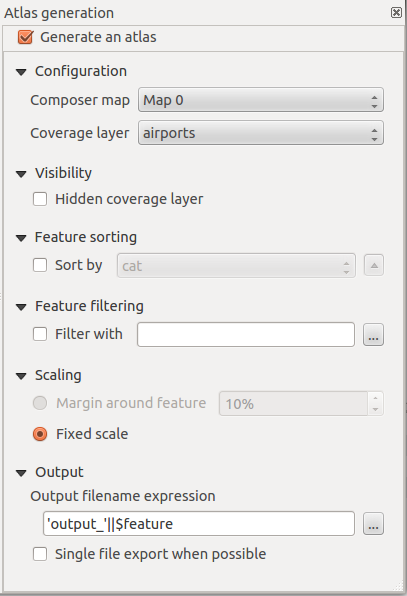
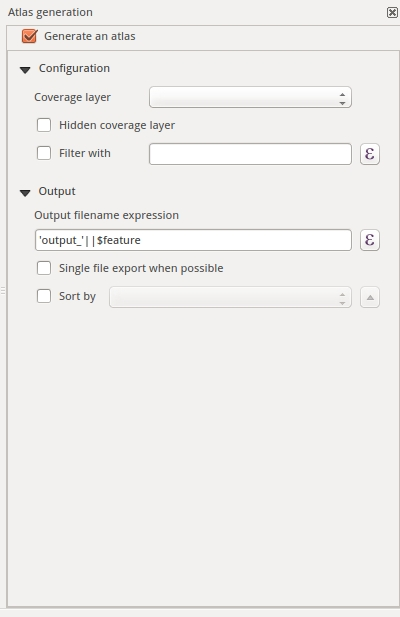
Atlas update and minor fixes

diff --git a/source/docs/user_manual/print_composer/print_composer.rst b/source/docs/user_manual/print_composer/print_composer.rst
@@ -52,7 +52,7 @@ See a list of tools in table_composer_1_:
 +--------------------------+---------------------------------------+----------------------------+------------------------------------------+
 | |mActionAddHtml|         | Add a HTML Frame                      |                            |                                          |
 +--------------------------+---------------------------------------+----------------------------+------------------------------------------+
-| |mActionSelectPan|       | Select/Move item in print composition | |mActionMoveItemContent|   | Move content within an item              |
+| |mActionSelect|       | Select/Move item in print composition | |mActionMoveItemContent|   | Move content within an item              |
 +--------------------------+---------------------------------------+----------------------------+------------------------------------------+
 | |mActionGroupItems|      | Group items of print composition      | |mActionUngroupItems|      | Ungroup items of print composition       |
 +--------------------------+---------------------------------------+----------------------------+------------------------------------------+
@@ -118,7 +118,7 @@ The print composer provides four tabs:
   all elements will be rastered before printing or saving as Postscript or PDF.
   In this tab you can also customize settings for Grid and Smart Guides.
 * The :guilabel:`Item Properties` tab displays the properties for the selected
-  item element. Click the |mActionSelectPan| :sup:`Select/Move item` icon to select
+  item element. Click the |mActionSelect| :sup:`Select/Move item` icon to select
   an element (e.g. legend, scalebar or label) on the canvas. Then click the
   :guilabel:`Item Properties` tab and customize the settings for the selected
   element.
@@ -164,8 +164,7 @@ used as default during the work.
 
 * :guilabel:`Compositions defaults` let you specify the default font to use.
 * With :guilabel:`Grid appearence` you can set the grid style and its color.
-* :guilabel:`Grid defaults` defines spacing, offset and tolerance of the grid. There are three types of grid: **Dots**, 
-**Solid** lines and **Crosses**.
+* :guilabel:`Grid defaults` defines spacing, offset and tolerance of the grid. There are three types of grid: **Dots**, **Solid** lines and **Crosses**.
 * :guilabel:`Guide defaults` defines the tolerance for the guides.
 
 Composition tab --- General composition setup
@@ -181,7 +180,7 @@ In the :guilabel:`Composition` tab, you can define the global settings of your c
 * :guilabel:`Grid` let you customize grid settings like :guilabel:`spacings`, :guilabel:`offsets` and :guilabel:`tolerance` to your need.
 * In :guilabel:`Snap to alignements` you can change the :guilabel:`Tolerance` which is the maximum distance below which an item is snapped to Smart Guides.
 
-Snap to Grid and/or to Guides can be enabled from the :menuselection:`View` menu. In this menu you can also hide or show Grid/Guides.
+Snap to Grid and/or to Smart Guides can be enabled from the :menuselection:`View` menu. In this menu you can also hide or show Grid/Smart Guides.
 
 Composer items general options
 ------------------------------
@@ -279,7 +278,7 @@ tab:
 
 **Cache** is default preview mode for newly added print composer maps.
 
-You can resize the map element by clicking on the |mActionSelectPan|
+You can resize the map element by clicking on the |mActionSelect|
 :sup:`Select/Move item` button, selecting the element, and dragging one of the
 blue handles in the corner of the map. With the map selected, you can now adapt
 more properties in the map :guilabel:`Item Properties` tab.
@@ -898,17 +897,16 @@ Size and position
 -----------------
 
 Each item inside the composer can be moved/resized to create a perfect layout.
-The first step is to select the item using the |mActionSelectPan| :sup:`Select/Move item` button; 
+The first step is to select the item using the |mActionSelect| :sup:`Select/Move item` button; 
 once selected the item can be moved or resized using the squares on the boundary. 
 For a better precision, you can move an item using the :kbd:`Arrows keys` on the keyboard; 
-if the movement are too slow, you can speed up it holding :kbd:`Shift`.
+if the movement is too slow, you can speed up it holding :kbd:`Shift`.
+While resizing, holding :kbd:`Shift` will maintain the aspect ratio instead :kbd:`Ctrl` will resize from the item center.
 
-While resizing, holding :kbd:`Shift` will maintain the aspect ratio, :kbd:`Ctrl` resizes from the item center.
+The correct position for an item can be obteined using snapping to Grid or Smart guides. If you need to 
+disable the snap on the fly just hold :kbd:`Ctrl` while moving the mouse.
 
-The correct position can be obteined using snapping to Grid or Smart guides. If you need to 
-disable snap on the fly just hold :kbd:`Ctrl` while moving the mouse.
-
-You can choose multiple items with the |mActionSelectPan| :sup:`Select/Move item` button, 
+You can choose multiple items with the |mActionSelect| :sup:`Select/Move item` button, 
 just hold the :kbd:`Shift` button and click on all the items you need. You can then resize/move
 this group just like a single item.
 
@@ -982,7 +980,6 @@ will be generated where the content of some canvas maps will be moved to
 highlight the current geometry. Fields associated to this geometry can be used
 within text labels.
 
-There can only be one atlas map by print composer but this one can contain multiple pages.
 Every pages will be generated  with each feature. To enable the generation
 of an atlas and access generation parameters, refer to the `Atlas generation`
 tab. This tab contains the following widgets (see Figure_composer_29_):
@@ -1000,28 +997,14 @@ tab. This tab contains the following widgets (see Figure_composer_29_):
    Atlas generation tab |nix|
 
 * A |checkbox| :guilabel:`Generate an atlas` enables or disables the atlas generation.
-* A combobox :guilabel:`Composer map` |selectstring| that allows to choose
-  which map item will be used as the atlas map, i.e. on which map geometries from
-  the coverage layer will be iterated over and displayed.
 * A combobox :guilabel:`Coverage layer` |selectstring| that allows to choose the
   (vector) layer containing the geometries on which to iterate over.
 * An optional |checkbox| :guilabel:`Hidden coverage layer`, that if checked, will
   hide the coverage layer (but not the other ones) during the generation.
-* An optional |checkbox| :guilabel:`Features sorting` that, if checked, allows to
-  sort features of the coverage layer. The associated combobox allows to choose
-  which column will be used as the sorting key. Sort order (either ascending or
-  descending) is set by a two-state button that displays an up or a down arrow.
-* An optional :guilabel:`Feature filtering` text area that allows to specify an
+* An optional :guilabel:`Filter with` text area that allows to specify an
   expression for filtering features from the coverage layer. If the expression
   is not empty, only features that evaluate to ``True`` will be selected. The
   button on the right allows to display the expression builder.
-* An input box :guilabel:`Scaling` that allows to select the amount
-  of space added around each geometry within the allocated map. Its value is
-  meaningful only when using the autoscaling mode.
-* A |checkbox| :guilabel:`Fixed scale` that allows to toggle between auto-scale
-  and fixed-scale mode. In fixed scale mode, the map will only be translated for
-  each geometry to be centered. In auto-scale mode, the map's extents are computed
-  in such a way that each geometry will appear in its whole.
 * An :guilabel:`Output filename expression` textbox that is used to generate a
   filename for each geometry if needed. It is based on expressions. This field is
   meaningful only for rendering to multiple files.
@@ -1029,6 +1012,26 @@ tab. This tab contains the following widgets (see Figure_composer_29_):
   the generation of a single file if this is possible by the chosen output format
   (PDF for instance). If this field is checked, the value of the
   :guilabel:`Output filename expression` field is meaningless.
+* An optional |checkbox| :guilabel:`Sort by` that, if checked, allows to
+  sort features of the coverage layer. The associated combobox allows to choose
+  which column will be used as the sorting key. Sort order (either ascending or
+  descending) is set by a two-state button that displays an up or a down arrow.
+
+
+You can use multiple map items with the Atlas generation; each map will be rendered according
+to the coverage features. To enable Atlas generation for a specific map item you need to
+|checkbox|:guilabel:`Controlled by Atlas` under the Item properties of the map item. Once checked, you can set:
+
+* An input box :guilabel:`Margin aroung feature` that allows to select the amount
+  of space added around each geometry within the allocated map. Its value is
+  meaningful only when using the autoscaling mode.
+* A |checkbox| :guilabel:`Fixed scale` that allows to toggle between auto-scale
+  and fixed-scale mode. In fixed scale mode, the map will only be translated for
+  each geometry to be centered. In auto-scale mode, the map's extents are computed
+  in such a way that each geometry will appear in its whole.
+
+Labels
+------
 
 In order to adapt labels to the feature the atlas plugin iterates over, use a label with this special notation
 `[%expression using field_name%]`.
@@ -1040,10 +1043,19 @@ And that would result in the generated atlas as
 
 "`The area of PARIS,75001 is 1.94 km2`".
 
+
+Preview
+-------
+
+Once the Atlas Settings have been configured and map items selected, you can create a preview of all the pages
+clicking on the :menuselection:`Atlas --> Preview Atlas` and using the arrows, in the same menu, to navigate
+through all the features.
+
 Generation
 ----------
 
-The atlas generation is done when the user asks for a print or an export. The behaviour of these functions will be slightly changed if an atlas map has been selected. For instance, when the user asks for an export to PDF, if an atlas map is defined, the user will be asked for a directory where to save all the generated PDF files (except if the |checkbox| :guilabel:`Single file export when possible` has been selected).
+The atlas generation can be done in different ways. For example, with :menuselection:`Atlas --> Print Atlas` you can directly print it. You can also create a PDF using :menuselection:`Atlas --> Export Atlas as PDF`: the user will be asked for a directory where to save all the generated PDF files (except if the |checkbox| :guilabel:`Single file export when possible` has been selected).
+If you need to print just a page of the atlas, simple start the preview function, select the page you need and click on :menuselection:`Composer --> Print` (or create a PDF).
 
 .. index::
    single:Printing; Export_Map
